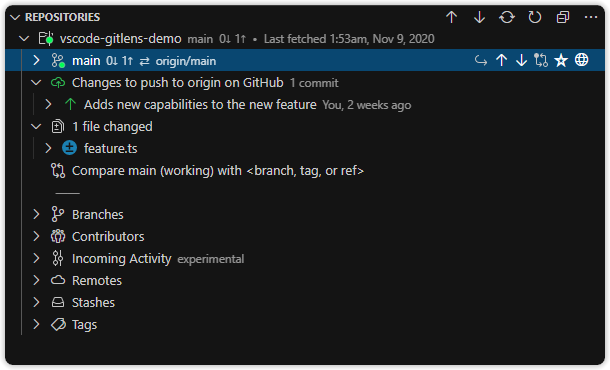
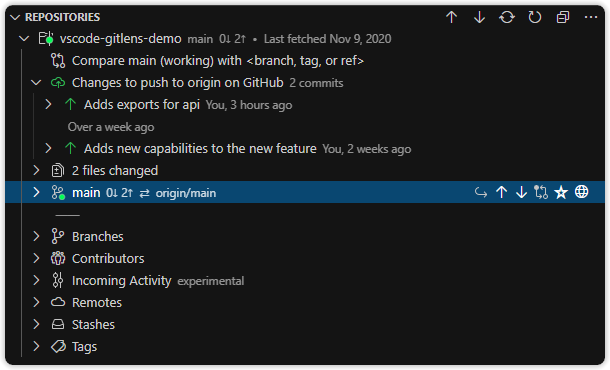
Updates repository views docs & images

diff --git a/README.md b/README.md
@@ -359,124 +359,39 @@ The _Search & Compare_ view lists pinnable (saved) results for searching commit 
 
 ### Repositories view [#](#repositories-view- 'Repositories view')
 
-#### TODO@eamodio Needs updating
-
 <p align="center">
-  <img src="https://raw.githubusercontent.com/eamodio/vscode-gitlens/develop/images/docs/repositories-view.png" alt="Repositories view" />
+  <img src="images/docs/repositories-view.png" alt="Repositories view" />
 </p>
 
-A [customizable](#repositories-view-settings- 'Jump to the Repositories view settings') view to visualize, navigate, and explore Git repositories
+A [customizable](#repositories-view-settings- 'Jump to the Repositories view settings'), hidden by default (as it has been superseded by the new views), view to visualize, navigate, and explore Git repositories
 
-- A toolbar provides quick access to the _Push Repositories_, _Pull Repositories_, _Fetch Repositories_, and _Refresh_ commands
-  - A context menu provides _Automatic Layout_, _List Layout_, _Tree Layout_, _Enable Automatic Refresh_ or _Disable Automatic Refresh_, _Open Settings_ commands
+The Repositories view lists opened Git repositories, and additionally provides,
 
-The repositories view provides the following features,
-
-- **Repositories** &mdash; lists the opened repositories
-
-  - Provides the name of each repository, the name of its current branch, [optionally](#repositories-view-settings- 'Jump to the Repositories view settings') its working tree status, and when it was last fetched
-    - Indicator dots on each repository icon denote the following:
-      - _None_ &mdash; no upstream or up-to-date with the upstream
-      - _Green_ &mdash; ahead of the upstream
-      - _Red_ &mdash; behind the upstream
-      - _Yellow_ &mdash; both ahead of and behind the upstream
-    - An inline toolbar provides quick access to the _Add to Favorites_ (when applicable), _Remove from Favorites_ (when applicable), _Search Commits_, _Push_ (`alt-click` for _Push (force)_), _Pull_, and _Fetch_ commands
-    - A context menu provides access to more common repository commands
-    - **Current Branch** &mdash; lists the revision (commit) history of the current branch and [optionally](#repositories-view-settings- 'Jump to the Repositories view settings') shows its remote tracking branch and status (if available)
-      - An inline toolbar provides quick access to the _Compare with Remote_ (if available), _Compare with Working Tree_, and _Open Branch on Remote_ (if available) commands
-      - A context menu provides access to more common branch commands
-    - **\* Commits Behind** &mdash; quickly see and explore the specific commits behind the upstream (i.e. commits that haven't been pulled)
-      - Only provided if the current branch is tracking a remote branch and is behind it
-      - An inline toolbar provides quick access to the _Pull_ command
-    - **\* Commits Ahead** &mdash; quickly see and explore the specific commits ahead of the upstream (i.e. commits that haven't been pushed)
-      - Only provided if the current branch is tracking a remote branch and is ahead of it
-      - An inline toolbar provides quick access to the _Push_ (`alt-click` for _Push (force)_) command
-    - **\* Files Changed** &mdash; lists all the "working" changes
-      - Expands to a file-based view of all changed files in the working tree ([optionally](#repositories-view-settings- 'Jump to the Repositories view settings')) and/or all files in all commits ahead of the upstream
-      - An inline toolbar provides quick access to the _Stash All Changes_ command
-    - **Compare Current Branch with &lt;branch, tag, or ref&gt;** &mdash; [optionally](#repositories-view-settings- 'Jump to the Repositories view settings') shows a comparison of the current branch to a user-selected reference
-      - **\* Commits** &mdash; lists the commits between the compared revisions
-        - Expands to provide the message, author, date, and change indicator of each revision (commit) &mdash; fully [customizable](#view-settings- 'Jump to the View settings')
-          - Each revision (commit) expands to list its set of changed files, complete with status indicators for adds, changes, renames, and deletes
-            - An inline toolbar provides quick access to the _Open File_, _Copy Commit ID to Clipboard_ (`alt-click` for _Copy Commit Message to Clipboard_), and _Open File on Remote_ (if available) commands
-            - A context menu provides access to more common file revision commands
-      - **\* Files Changed** &mdash; lists all of the files changed between the compared revisions
-      - An inline toolbar provides quick access to the _Switch to Two-dot Comparison_ (when applicable), _Switch to Three-dot Comparison_ (when applicable), _Switch to Working Tree Comparison_ (when applicable), _Switch to Branch Comparison_ (when applicable), and _Refresh_ commands
-
-- **Branches** &mdash; lists the local branches in the repository
-
-  - An inline toolbar provides quick access to the _Open Branches on Remote_ (if available) command
-  - Provides the name of each branch, an indicator (check-mark) if the branch is the current one, and [optionally](#repositories-view-settings- 'Jump to the Repositories view settings') shows its remote tracking branch and status (if available)
-    - Indicator dots on each branch icon denote the following:
-      - _None_ &mdash; no upstream or up-to-date with the upstream
-      - _Green_ &mdash; ahead of the upstream
-      - _Red_ &mdash; behind the upstream
-      - _Yellow_ &mdash; both ahead of and behind the upstream
-    - An inline toolbar provides quick access to the _Add to Favorites_ (when applicable), _Remove from Favorites_ (when applicable), _Checkout_, _Compare with Remote_ (if available), _Compare with HEAD_ (`alt-click` for _Compare with Working Tree_), and _Open Branch on Remote_ (if available) commands
-    - A context menu provides access to more common branch commands
-    - Each branch expands to list its revision (commit) history
-      - **\* Commits Behind** &mdash; quickly see and explore the specific commits behind the upstream (i.e. commits that haven't been pulled)
-        - Only provided if the current branch is tracking a remote branch and is behind it
-      - **\* Commits Ahead** &mdash; quickly see and explore the specific commits ahead of the upstream (i.e. commits that haven't been pushed)
-        - Only provided if the current branch is tracking a remote branch and is ahead of it
-      - An inline toolbar provides quick access to the _Compare with HEAD_ (`alt-click` for _Compare with Working Tree_), _Copy Commit ID to Clipboard_ (`alt-click` for _Copy Commit Message to Clipboard_), and _Open Commit on Remote_ (if available) commands
-      - A context menu provides access to more common revision (commit) commands
-      - Each revision (commit) expands to list its set of changed files, complete with status indicators for adds, changes, renames, and deletes
-        - An inline toolbar provides quick access to the _Open File_, _Copy Commit ID to Clipboard_ (`alt-click` for _Copy Commit Message to Clipboard_), and _Open File on Remote_ (if available) commands
-        - A context menu provides access to more common file revision commands
-
-- **Contributors** &mdash; lists the contributors in the repository, sorted by contributed commits
-
-  - Provides the avatar (if enabled), name, and email address of each contributor
-    - An inline toolbar provides quick access to the _Copy to Clipboard_ command
-    - A context menu provides access to the _Copy to Clipboard_, _Add as Co-author_, and _Refresh_ commands
-    - Each contributor expands to list the repository's revision (commit) history filtered by the contributor
-      - An inline toolbar provides quick access to the _Compare with HEAD_ (`alt-click` for _Compare with Working Tree_), _Copy Commit ID to Clipboard_ (`alt-click` for _Copy Commit Message to Clipboard_), and _Open Commit on Remote_ (if available) commands
-      - A context menu provides access to more common revision (commit) commands
-      - Each revision (commit) expands to list its set of changed files, complete with status indicators for adds, changes, renames, and deletes
-        - An inline toolbar provides quick access to the _Open File_, _Copy Commit ID to Clipboard_ (`alt-click` for _Copy Commit Message to Clipboard_), and _Open File on Remote_ (if available) commands
-        - A context menu provides access to more common file revision commands
-
-- **Incoming Activity** &mdash; lists the recent incoming activity (merges and pulls) to your local repository (experimental, enabled via `"gitlens.insiders": true`)
-
-  - Provides the command, branch (if available), and date of each activity
-    - A context menu provides access to the _Refresh_ command
-    - Each activity expands to list the commits added by the command
-      - An inline toolbar provides quick access to the _Compare with HEAD_ (`alt-click` for _Compare with Working Tree_), _Copy Commit ID to Clipboard_ (`alt-click` for _Copy Commit Message to Clipboard_), and _Open Commit on Remote_ (if available) commands
-      - A context menu provides access to more common revision (commit) commands
-      - Each revision (commit) expands to list its set of changed files, complete with status indicators for adds, changes, renames, and deletes
-        - An inline toolbar provides quick access to the _Open File_, _Copy Commit ID to Clipboard_ (`alt-click` for _Copy Commit Message to Clipboard_), and _Open File on Remote_ (if available) commands
-        - A context menu provides access to more common file revision commands
-
-- **Remotes** &mdash; lists the remotes in the repository
-
-  - Provides the name of each remote, an indicator of the remote's direction (fetch, push, both), remote service (if applicable), and repository path
-    - An inline toolbar provides quick access to the _Fetch_, and _Open Repository on Remote_ (if available) commands
-    - A context menu provides access to more common repository and remote commands
-    - Each remote expands to list its remote branches
-      - See the **Branches** above for additional details
-
-- **Stashes** &mdash; lists the stashed changes in the repository
-
-  - An inline toolbar provides quick access to the _Stash All Changes_, and _Apply Stash Changes_ commands
-  - Provides the name of each stash, the date, and an indicator (+x ~x -x) of the changes
-    - An inline toolbar provides quick access to the _Compare with HEAD_ (`alt-click` for _Compare with Working Tree_), _Apply Stash_, and _Delete Stash_ commands
-    - A context menu provides access to more common stash commands
-    - Each stash expands to list the set of stashed files, complete with status indicators for adds, changes, renames, and deletes
-      - An inline toolbar provides quick access to the _Open File_, and _Open File on Remote_ (if available) commands
-      - A context menu provides access to more common file revision commands
-
-- **Tags** &mdash; lists the tags in the repository
-
-  - Provides the name of each tag
-    - An inline toolbar provides quick access to the _Checkout, and \_Compare with HEAD_ (`alt-click` for _Compare with Working Tree_) commands
-    - A context menu provides access to more common tag commands
-    - Each tags expands to list its revision (commit) history
-      - An inline toolbar provides quick access to the _Compare with HEAD_ (`alt-click` for _Compare with Working Tree_), _Copy Commit ID to Clipboard_ (`alt-click` for _Copy Commit Message to Clipboard_), and _Open Commit on Remote_ (if available) commands
-      - A context menu provides access to more common revision (commit) commands
-      - Each revision (commit) expands to list its set of changed files, complete with status indicators for adds, changes, renames, and deletes
-        - An inline toolbar provides quick access to the _Open File_, _Copy Commit ID to Clipboard_ (`alt-click` for _Copy Commit Message to Clipboard_), and _Open File on Remote_ (if available) commands
-        - A context menu provides access to more common file revision commands
+- a toggle to automatically refresh the repository on changes
+- a toggle to change the file layout: list, tree, auto
+- an icon indicator to show the current branch's upstream status (if available)
+  - _No dot_ &mdash; unpushlished or up to date with the upstream remote
+  - _Green dot_ &mdash; has changes unpublished (ahead)
+  - _Red dot_ &mdash; has changes un-pulled (behind)
+  - _Yellow dot_ &mdash; both unpublished and un-pulled changes
+- a branch comparison tool (**Compare &lt;current branch&gt; with &lt;branch, tag, or ref&gt;**) &mdash; [optionally](#repositories-view-settings- 'Jump to the Repositories view settings') shows a comparison of the current branch (or working tree) to a user-selected reference
+- the current branch status &mdash; shows the upstream status of the current branch (if not up to date)
+  - **Publish &lt;current branch&gt; to remote** &mdash; shown when the current branch has not been published to a remote
+  - **Changes to push to &lt;remote&gt;** &mdash; lists of all the files changed in the unpublished commits when the current branch has (unpublished) commits that waiting to be pushed to the upstream remote
+  - **Changes to pull from &lt;remote&gt;** &mdash; lists all of the commits waiting to be pulled when the current branch has commits that are waiting to be pulled from the upstream remote
+- any associated pull request &mdash; shows any opened pull request associated with the current branch
+  - **Behind** &mdash; lists the commits that are missing from the current branch (i.e. behind) but exist in the selected reference
+    - **# files changed** &mdash; lists all of the files changed between the compared references
+  - **Ahead** &mdash; lists the commits that the current branch has (i.e. ahead) but are missing in the selected reference
+    - **# files changed** &mdash; lists all of the files changed between the compared references
+- the changed files &mdash; lists all of the files changed by the unpublished (unpushed) commits and [optionally](#repositories-view-settings- 'Jump to the Repositories view settings') any working tree changes
+- the current branch commits &mdash; similar to the [Commits view](#commits-view- 'Commits view')
+- the local branches &mdash; similar to the [Branches view](#branches-view- 'Branches view')
+- the contributors &mdash; similar to the [Contributors view](#contributors-view- 'Contributors view')
+- any incoming activity (experimental) &mdash; lists the command, branch (if available), and date of recent incoming activity (merges and pulls) to your local repository
+- the remotes and remote branches &mdash; similar to the [Remotes view](#remotes-view- 'Remotes view')
+- the stashes &mdash; similar to the [Stashes view](#stashes-view- 'Stashes view')
+- the tags &mdash; similar to the [Tags view](#tags-view- 'Tags view')
 
 ## Gutter Blame [#](#gutter-blame- 'Gutter Blame')
 
